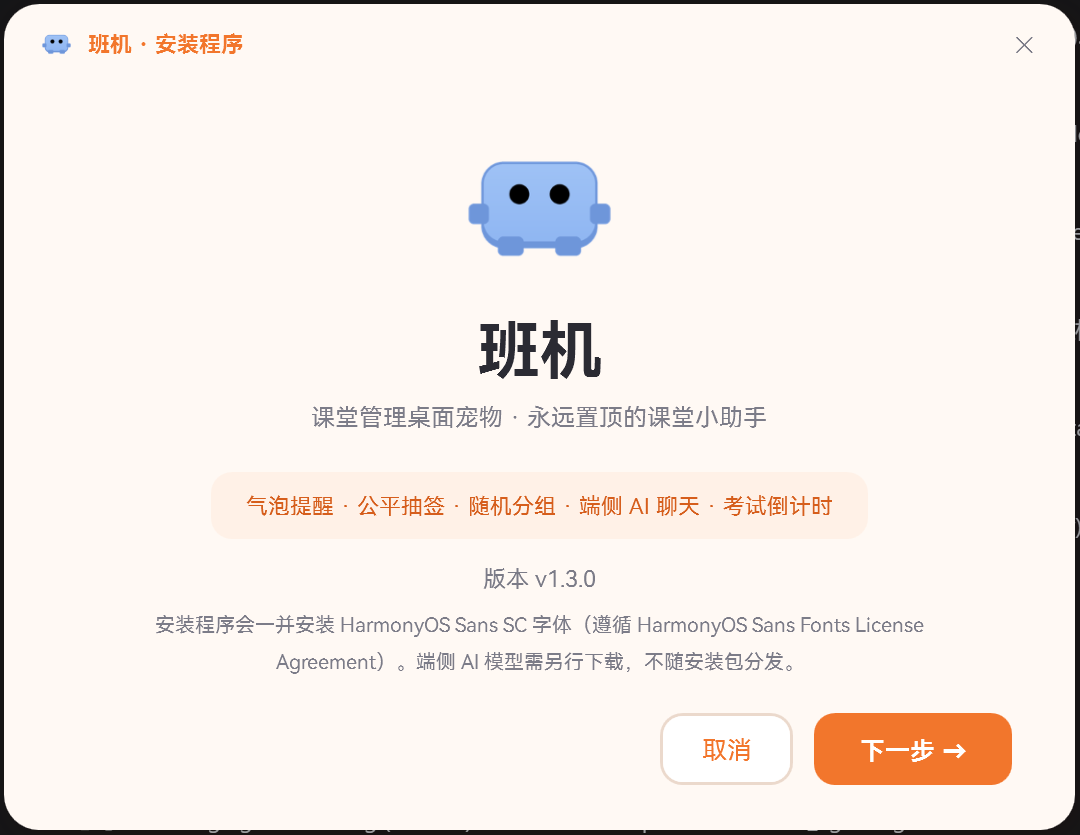
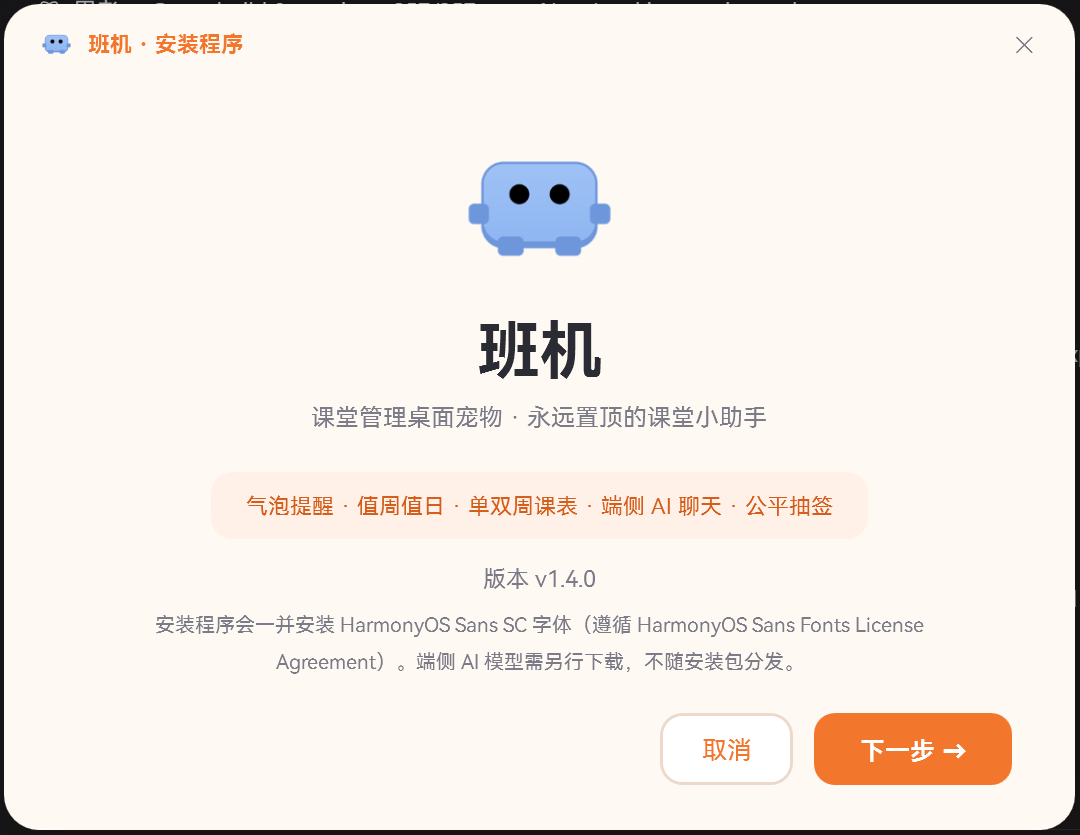
release: v1.4.0（值周/值日、单双周课表、AI 联动、随包 VC++ 运行库）

Changed region(s): [[0.3361, 0.5916, 0.7944, 0.6228], [0.5194, 0.685, 0.55, 0.7162]]

diff --git a/RELEASE_NOTES-v1.4.0.md b/RELEASE_NOTES-v1.4.0.md
@@ -59,8 +59,8 @@
 
 | 文件 | 说明 |
 | --- | --- |
-| `Banji-Setup-1.4.0.exe` | 安装程序（约 213MB，无需管理员权限） |
-| `Banji-Portable-1.4.0.zip` | 免安装便携版（解压即用） |
+| `Banji-Setup-1.4.0.exe` | 安装程序（约 215MB，无需管理员权限） |
+| `Banji-Portable-1.4.0.zip` | 免安装便携版（约 103MB，解压即用） |
 | `README.md` | 完整使用说明 |
 | `RELEASE_NOTES-v1.4.0.md` | 本发布说明 |
 | `LICENSE.txt` | 鸿蒙字体许可证 |
